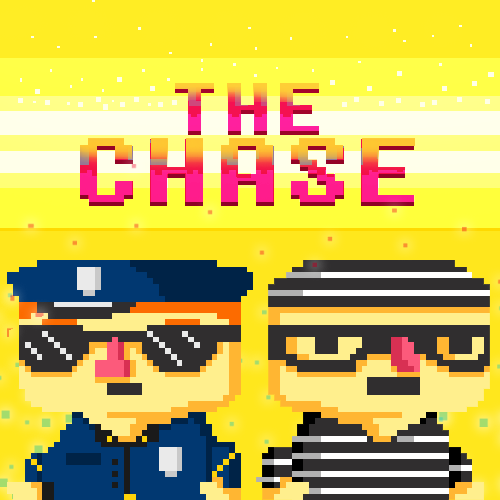
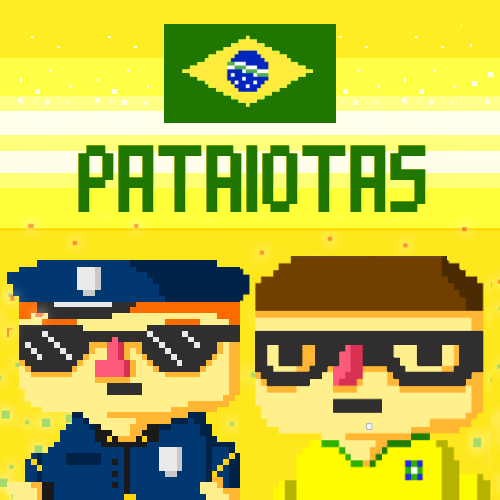
opening and instructions updated

diff --git a/src/index.html b/src/index.html
@@ -54,7 +54,8 @@
         <div id="instructionsBar" class="bar">
             <img id="setas" src="img/setas.png" alt="slide to move" />
             <div id="slideLabel">use o dedo para mover</div>
-            <img id="thiefInstruction" src="img/thief_bar.png" alt="slide to move" />
+            <!-- <img id="thiefInstruction" src="img/thief_bar.png" alt="slide to move" /> -->
+            <img id="thiefInstruction" src="img/thief_01.gif" alt="slide to move" />
             <div id="collectLabel">
                 apanhe
                 <div id="items">

diff --git a/src/js/controls.js b/src/js/controls.js
@@ -35,7 +35,7 @@ function Controls()
             if (justOpened.value == 1) {
                 handleSounds();
                 document.getElementById('presentationImage')
-                    .setAttribute('src', 'img/detalhes.gif');
+                    .setAttribute('src', 'img/detalhes.png');
                 justOpened.value = 0;
                 return;
             }

diff --git a/src/js/setup.js b/src/js/setup.js
@@ -21,7 +21,7 @@ function Setup() {
 
     function loadContent() {
      var ImgsToPreload = new Array(
-            'img/detalhes.gif',
+            'img/detalhes.png',
             'img/start_over.png',
             'img/guarda_fogo_02.gif',
             'img/juiz_fogo.gif',
